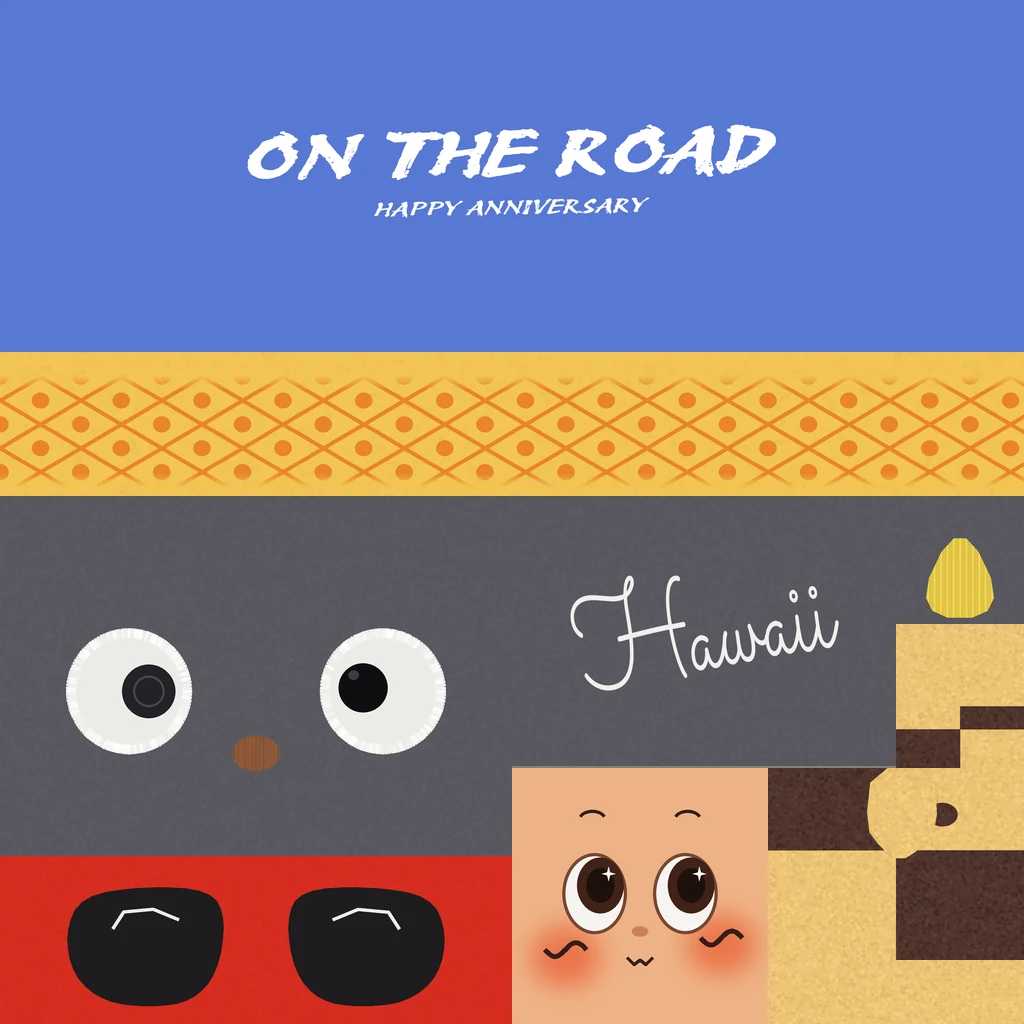
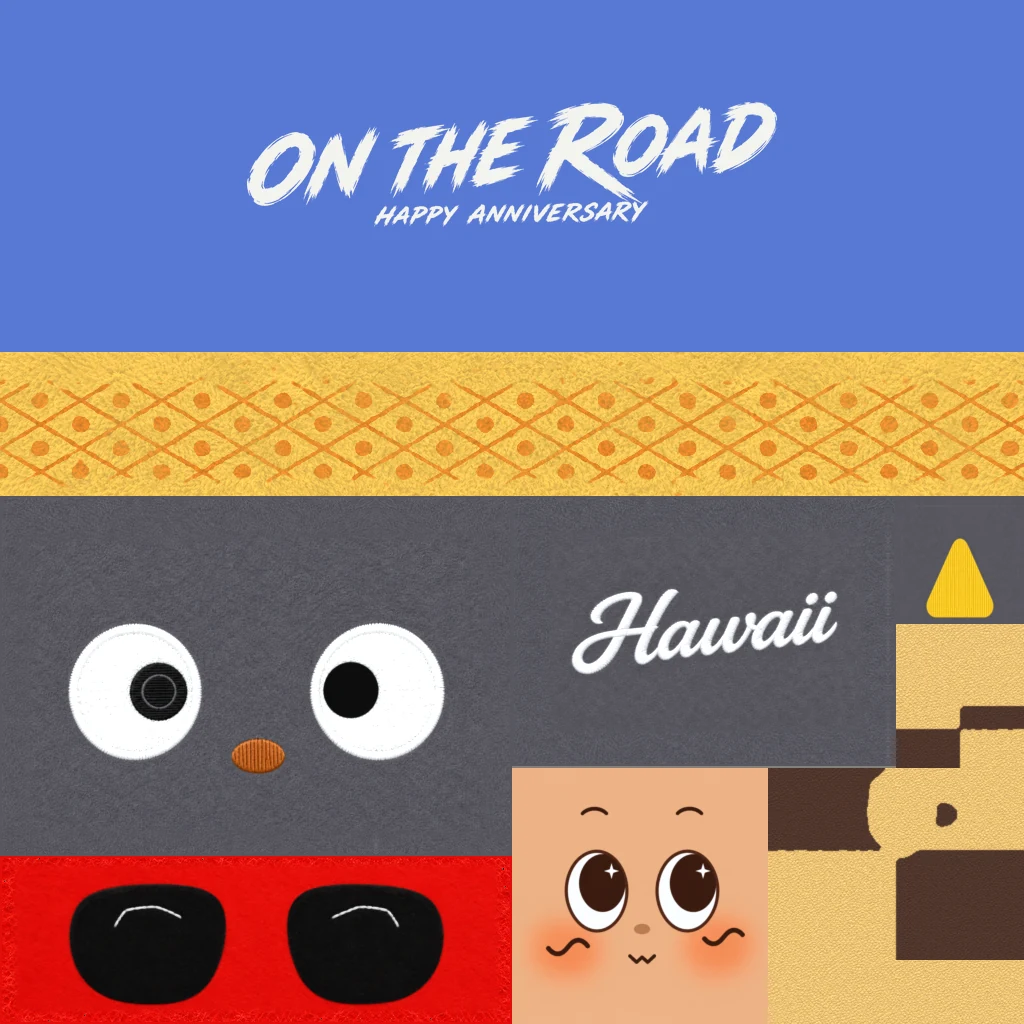
feat(room): the keepsakes' paint repainted by the picture thread (#381)
* feat(pond): the Dragon Gate, waiting for its dragon's picture

Every third leap of a visit, the koi goes as a dragon: it winds once
round the open water and climbs away over the top, with ripples under
it, a gold light about its head on the water, and the seal 龙.

The dragon is a painted sheet laid in slices along the way its head has
gone, as a painted koi is laid along its spine. No picture has come
yet, so no dragon rises and the seal is a preview: nothing a visitor
sees changes. The brief for the picture is "The dragon sheet" in
docs/agents/pond.md, and docs/agents/pond-handoff.md says how the
thread that paints it hands it back.

Claude-Session: https://claude.ai/code/session_01NUmm5dS9r3NtvAbw8n1VEZ

* docs(pond): ask for the Dragon Gate's seal on the second sheet

The seal 龙 takes one of the two empty cells of the second sheet of
seals, which is still asked for; until it comes the seal is its
character in the brush, as the other idle seals are.

Claude-Session: https://claude.ai/code/session_01NUmm5dS9r3NtvAbw8n1VEZ

* feat(pond): add two painted clues and the occasions' seals

What the brief asked of the local thread:

- Monet's clue, a lily pad in the painting's hand with its rim alone
  in the bowl's cobalt, and the bowl's clue, a reign mark under a film
  of ochre dust with strokes wiped through it. Both are from the image
  model, reduced to the sizes asked and feathered to nothing.
- A second sheet of seals for the volume of occasions: 雨, 雪, 月, 节,
[…]

diff --git a/docs/agents/pond-handoff.md b/docs/agents/pond-handoff.md
@@ -91,6 +91,70 @@ what is left, and what was learnt. What is open now is section 0.
   right. The cloud thread looks at it in the room, asks for changes here if it is not yet
   true to the photographs, and opens the pull request.
 
+  _Handed back: a first repaint, made without the photographs._ Jincheng asked for it to be
+  painted and pushed before pasting them here, so every island is painted from the words above
+  and not from the objects: read it against the photographs and say here what is untrue. The
+  pieces are painted by the image model and set in place by code; the master is
+  `tools/pond/room/tex/keepsakes.png`, the picture 135 KB.
+  1. `mug`: new lettering in a white dry-brush hand, slanted capitals with ragged ends, the R
+     of ROAD the largest with a long leg, climbing to the right. "ON THE ROAD" is 530 wide,
+     centred at (512, 154); "HAPPY ANNIVERSARY" 275 wide, centred at (512, 208). The ground is
+     flat `#5879d4` to every edge, the white `#f4f4f0`.
+  2. `plush-back`: "Hawaii" as a heavy slanted satin-stitch script, 265 wide, centred at
+     (704, 631), on charcoal with a short nap.
+  3. `plush-face`: eyes of white terry with a stitched rim, 122 across, at (129, 691) and
+     (383, 691); the left pupil stitched with a grey ring, the right one plain black, both
+     toward the nose; the nose in orange-brown satin stitch at (258, 754). The charcoal's
+     middle value is `#58575f`.
+  4. `plush-print`: the stand-in's grid and dots kept where they were, now as ink in pile: the
+     lines' edges and strength vary and the yellow has a nap. It repeats every 970 pixels, so
+     the left 54 and the right 54 are the same, and it runs to the top and bottom edges.
+  5. `plush-glasses`: red felt with fibre, two lenses of black plush with their middles at
+     (148, 942) and (364, 942), a curved white stitch on each. The red is now `#e10e0b`,
+     brighter than the stand-in's: the plain parts of the model should follow, or say so and
+     it goes back.
+  6. `plush-ear`: a rounded triangle of gold thread in upright rows, in the box the stand-in's
+     gold had. It reads as bright yellow thread more than metal.
+  7. `figurine-face`: repainted with its irises where they were: the white as a crescent at
+     the lower left of each iris, a smaller star, a softer blush, the cheek marks as tildes.
+     The skin's colour is kept.
+  8. `figurine-body`, `figurine-back`, `figurine-hood`: the same shapes in `#50362c` and
+     `#ebc375` with a finer pebble; the quarters' edges are redrawn from the stand-in, so they
+     are no truer than it was.
+
+  Not got right, or not known: whether any of it matches the real things (above all the
+  mug's hand and the embroidery's letter shapes); the threads carry a little painted relief
+  (a pale side and a dark side to each stitch), which is light the room does not cast; the
+  last two pixels of each island are plain ground except in the print (it must run to its
+  edges) and the three pebbled islands. Send the photographs' corrections as words here, or
+  ask Jincheng to paste the photographs into the picture thread.
+
+  _Looked at in the room beside the photographs, 2026-11-17 (the cloud thread)._ Taken as it
+  is and going to main: it is a clear step up, and the mug is now the best of the three. The
+  mug's hand is true to the photograph (slant, weight, the large R with its leg, the ragged
+  ends); nothing to change there. A second pass is wanted on four islands, in this order,
+  from the photographs as seen here:
+  1. `plush-print`: the brief was wrong about the count. The real print is large: about six
+     lines each way round the whole body (so three or four diamonds show across the front),
+     each line about 3 mm wide, and one round dot about 8 mm across in the middle of each
+     diamond. On the picture that is lines about 170 pixels apart along the island and dots
+     about 22 pixels across. The orange is a clear mid orange, flat as ink, not darker at the
+     crossings. It must still repeat every 970 pixels and run to the top and bottom edges.
+  2. `plush-back`: the real "Hawaii" is a lighter, more open hand than the one delivered:
+     thin even strokes (about a third of the weight now), letters upright in their bowls but
+     the whole word slanted and climbing about 8 degrees, wide spacing, a tall open H whose
+     left stroke starts with a long flourish from the lower left, the w reading as two u's,
+     no connecting swash under the word, and small separate dots on the two i's. Satin stitch
+     running across each stroke. Same width (265 pixels), same middle.
+  3. `plush-ear`: the real lining is an olive gold, darker and greener than the yellow
+     delivered (near `#b59a1e`), with a metallic thread's sparkle, and its shape is a
+     triangle with all three corners well rounded, filling most of the box.
+  4. `plush-face`: close. Make the stitched rim of each eye a little wider and brighter than
+     the terry inside it, and the left pupil's grey ring fainter. The nose is right.
+  The red of the glasses stays as delivered; the model's plain red follows it. The figurine's
+  islands and the mug stay as they are. The painted relief on the stitches is slight enough
+  to keep.
+
 - **Next cloud review: the gold window and its koi are ready.** Pull through
   `3792c71`: the chosen wide-2/tall-2 beds and the optional right-shifted bed
   are delivered, along with the third koi sheet and its tint mask. The local
